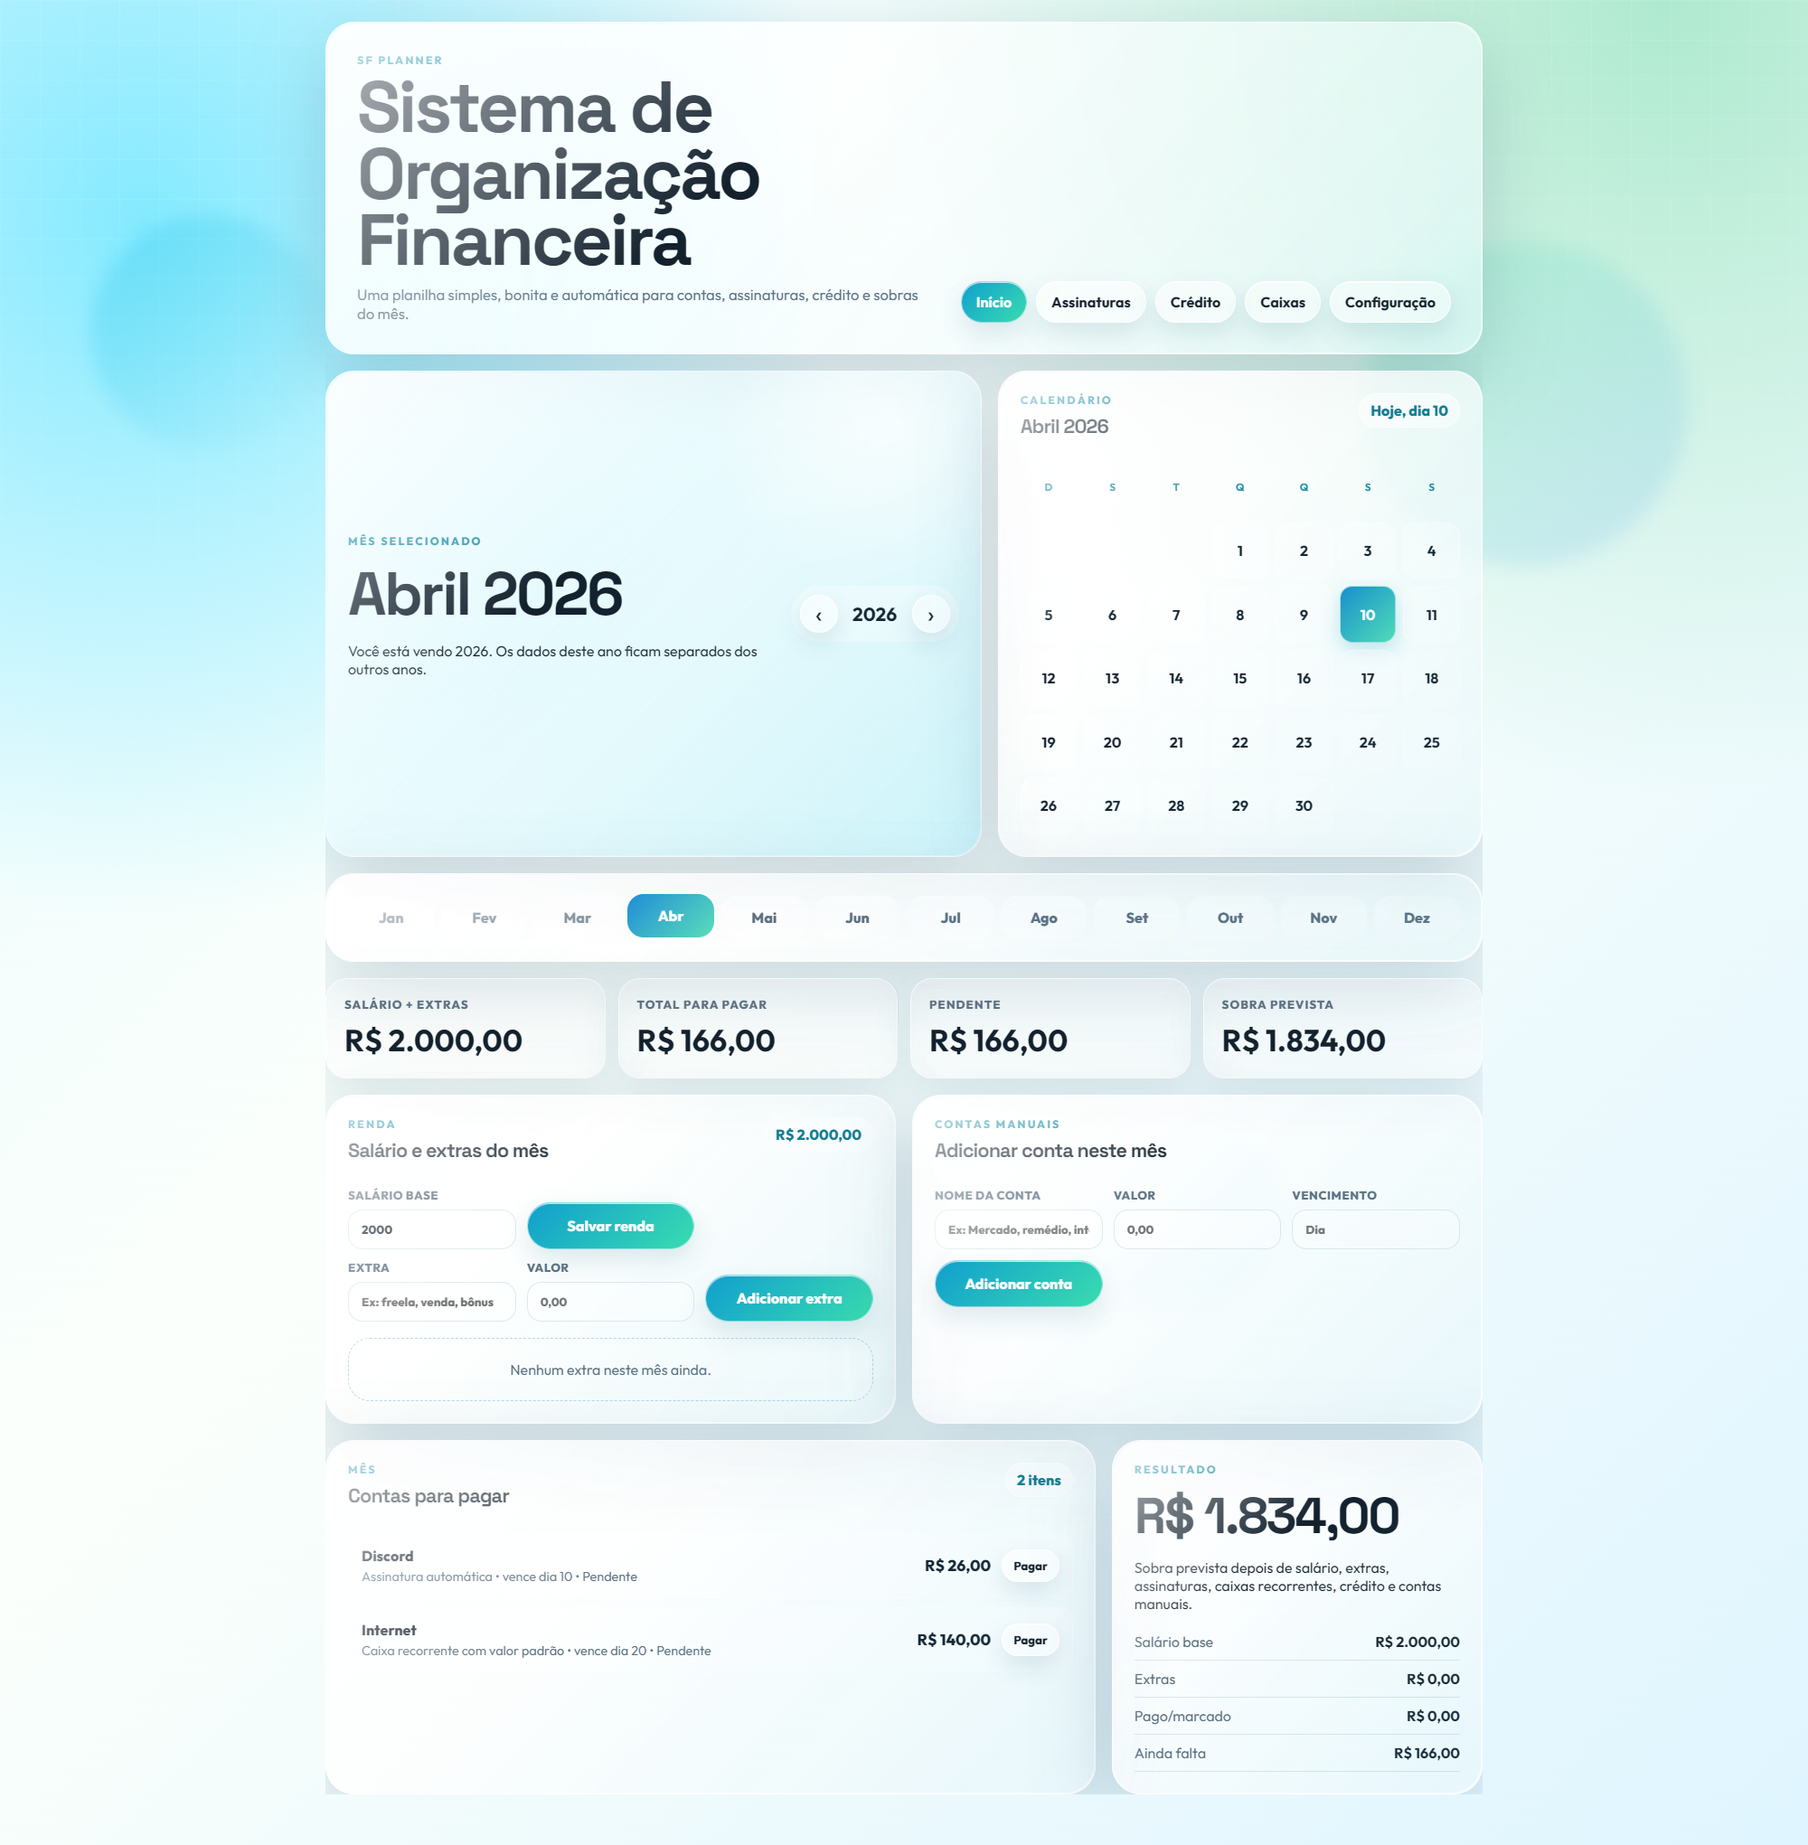
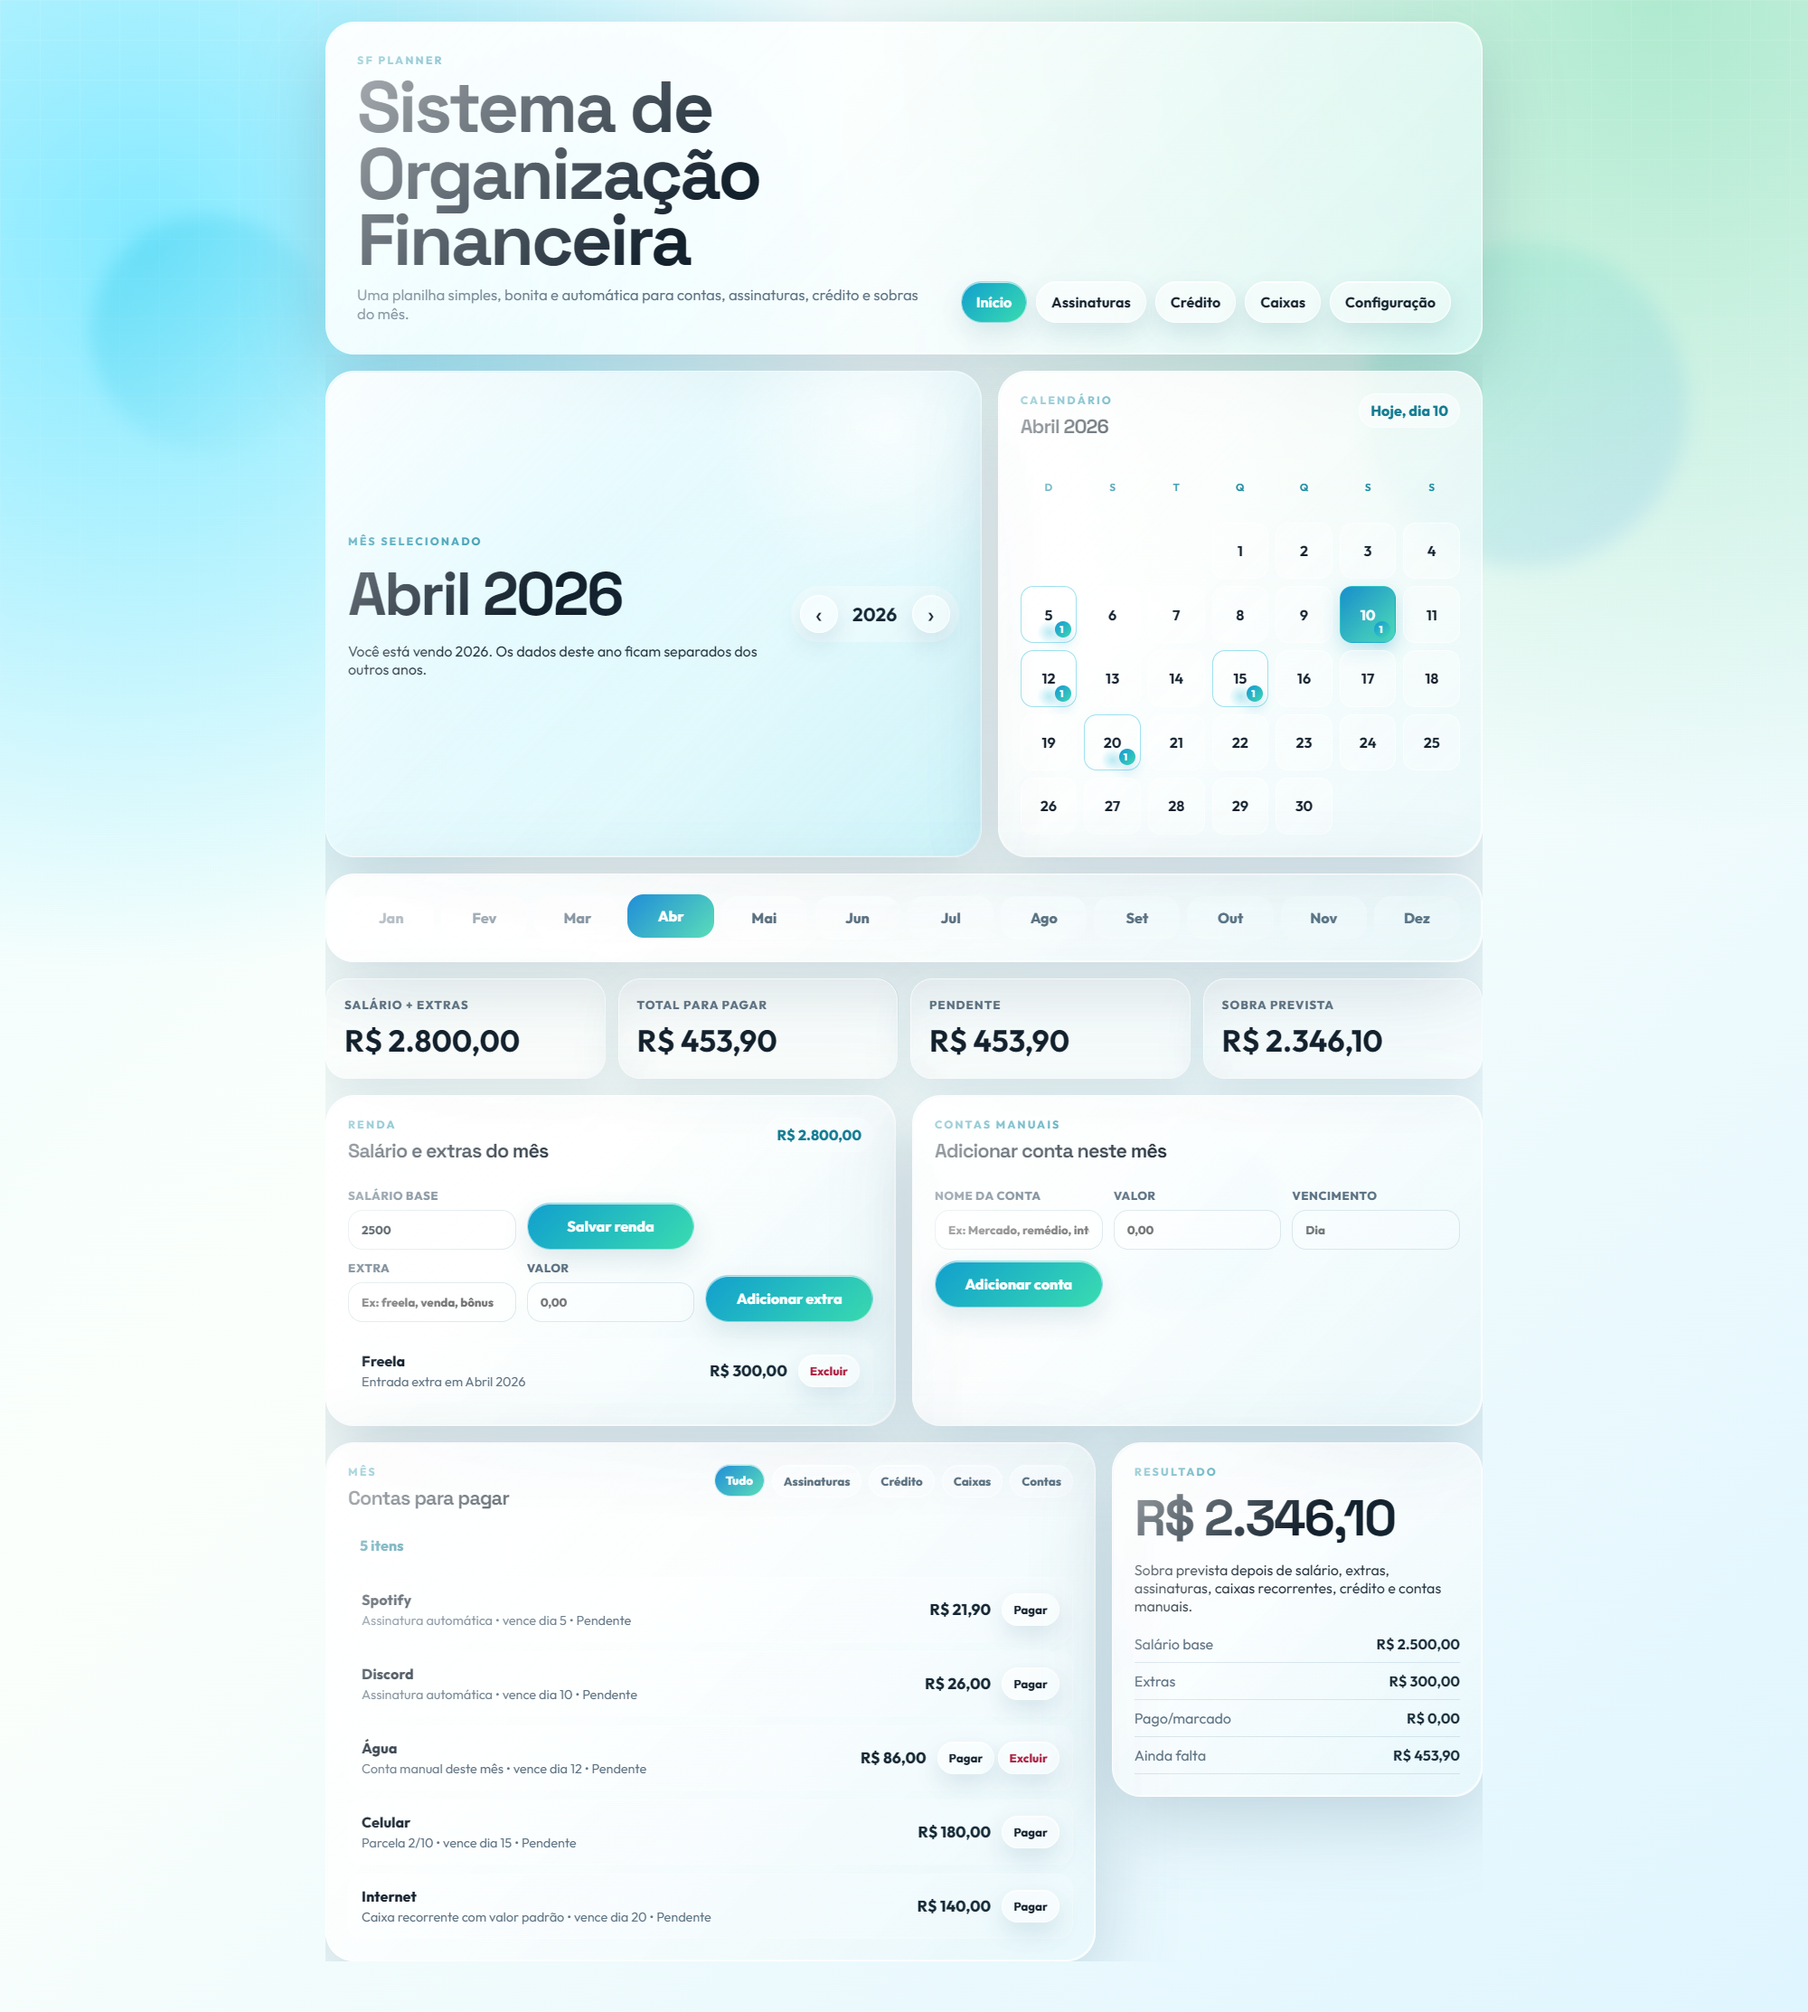
Adicionar indicadores e filtros de contas

diff --git a/app.js b/app.js
@@ -22,6 +22,7 @@ const today = new Date();
 let selectedYear = today.getFullYear();
 let selectedMonth = today.getMonth();
 let activeView = "dashboard";
+let activeBillFilter = "all";
 let state = loadState();
 let dom = {};
 
@@ -264,6 +265,12 @@ function renderCalendar() {
   const firstDay = new Date(selectedYear, selectedMonth, 1).getDay();
   const daysInMonth = new Date(selectedYear, selectedMonth + 1, 0).getDate();
   const isCurrentMonth = today.getFullYear() === selectedYear && today.getMonth() === selectedMonth;
+  const itemsByDay = getCurrentItems().reduce((days, item) => {
+    const day = Math.max(1, Math.min(daysInMonth, item.dueDay));
+    days[day] = days[day] || [];
+    days[day].push(item);
+    return days;
+  }, {});
 
   dom.calendarTitle.textContent = `${monthNames[selectedMonth]} ${selectedYear}`;
   dom.todayChip.textContent = isCurrentMonth ? `Hoje, dia ${today.getDate()}` : "Mês salvo";
@@ -279,7 +286,17 @@ function renderCalendar() {
 
   for (let day = 1; day <= daysInMonth; day += 1) {
     const todayClass = isCurrentMonth && today.getDate() === day ? " today" : "";
-    dom.calendarGrid.insertAdjacentHTML("beforeend", `<div class="calendar-day${todayClass}">${day}</div>`);
+    const dayItems = itemsByDay[day] || [];
+    const billClass = dayItems.length ? " has-bills" : "";
+    const overdueClass = dayItems.some((item) => item.overdue) ? " has-overdue" : "";
+    const title = dayItems.length
+      ? ` title="${dayItems.map((item) => `${item.title}: ${money(item.value)}`).join(" | ")}"`
+      : "";
+    const badge = dayItems.length ? `<span class="calendar-badge">${dayItems.length}</span>` : "";
+    dom.calendarGrid.insertAdjacentHTML(
+      "beforeend",
+      `<div class="calendar-day${todayClass}${billClass}${overdueClass}"${title}>${day}${badge}</div>`,
+    );
   }
 }
 
@@ -295,10 +312,14 @@ function renderMonthTabs() {
 function renderDashboard() {
   const summary = calculateMonth();
   const monthData = getMonthData();
+  const filteredItems = filterItems(summary.items);
 
   dom.baseSalary.value = state.settings.baseSalary || "";
   dom.incomeStatus.textContent = money(summary.income);
-  dom.billCount.textContent = `${summary.items.length} itens`;
+  dom.billCount.textContent =
+    activeBillFilter === "all"
+      ? `${summary.items.length} itens`
+      : `${filteredItems.length} de ${summary.items.length} itens`;
   dom.monthLeftover.textContent = money(summary.leftover);
 
   dom.summaryStrip.innerHTML = [
@@ -319,8 +340,13 @@ function renderDashboard() {
     .map(([label, value]) => `<div class="ledger-row"><span>${label}</span><strong>${value}</strong></div>`)
     .join("");
 
-  renderMonthItems(summary.items);
+  renderMonthItems(filteredItems, summary.items.length);
   renderExtras();
+}
+
+function filterItems(items) {
+  if (activeBillFilter === "all") return items;
+  return items.filter((item) => item.kind === activeBillFilter);
 }
 
 function renderExtras() {
@@ -348,9 +374,13 @@ function renderExtras() {
     .join("");
 }
 
-function renderMonthItems(items) {
+function renderMonthItems(items, totalItems = items.length) {
   if (!items.length) {
-    dom.monthItems.innerHTML = `<div class="empty-state">Nenhuma conta neste mês ainda. Adicione uma conta, assinatura, caixa ou crédito.</div>`;
+    const message =
+      totalItems > 0
+        ? "Nenhum item encontrado para este filtro."
+        : "Nenhuma conta neste mês ainda. Adicione uma conta, assinatura, caixa ou crédito.";
+    dom.monthItems.innerHTML = `<div class="empty-state">${message}</div>`;
     return;
   }
 
@@ -461,6 +491,7 @@ function cacheDom() {
   dom = {
     views: document.querySelectorAll(".view"),
     navPills: document.querySelectorAll(".nav-pill"),
+    filterPills: document.querySelectorAll(".filter-pill"),
     selectedMonthTitle: document.getElementById("selected-month-title"),
     selectedYear: document.getElementById("selected-year"),
     selectedYearCopy: document.getElementById("selected-year-copy"),
@@ -516,6 +547,14 @@ function togglePaid(kind, id, creditId, installmentIndex) {
 function bindEvents() {
   dom.navPills.forEach((button) => {
     button.addEventListener("click", () => setView(button.dataset.viewTarget));
+  });
+
+  dom.filterPills.forEach((button) => {
+    button.addEventListener("click", () => {
+      activeBillFilter = button.dataset.filter;
+      dom.filterPills.forEach((item) => item.classList.toggle("active", item === button));
+      renderDashboard();
+    });
   });
 
   document.addEventListener("click", (event) => {

diff --git a/styles.css b/styles.css
@@ -308,6 +308,10 @@ h3 {
   background: rgba(255, 255, 255, 0.55);
 }
 
+.count-chip {
+  margin: -8px 0 16px;
+}
+
 .calendar-grid {
   display: grid;
   grid-template-columns: repeat(7, 1fr);
@@ -330,14 +334,46 @@ h3 {
 }
 
 .calendar-day {
+  position: relative;
   border: 1px solid rgba(255, 255, 255, 0.58);
   background: rgba(255, 255, 255, 0.36);
+}
+
+.calendar-day.has-bills {
+  border-color: rgba(27, 185, 214, 0.42);
+  background:
+    radial-gradient(circle at 50% 82%, rgba(27, 185, 214, 0.28), transparent 22%),
+    rgba(255, 255, 255, 0.5);
+}
+
+.calendar-day.has-overdue {
+  border-color: rgba(239, 71, 111, 0.48);
 }
 
 .calendar-day.today {
   color: white;
   background: linear-gradient(135deg, #178ecc, #50ddb7);
   box-shadow: 0 8px 22px rgba(20, 153, 194, 0.24);
+}
+
+.calendar-badge {
+  position: absolute;
+  right: 5px;
+  bottom: 5px;
+  min-width: 18px;
+  height: 18px;
+  padding: 0 5px;
+  border-radius: 999px;
+  color: white;
+  font-size: 0.67rem;
+  font-weight: 900;
+  line-height: 18px;
+  background: linear-gradient(135deg, #1397d5, #40d6b2);
+  box-shadow: 0 8px 14px rgba(19, 151, 213, 0.25);
+}
+
+.calendar-day.has-overdue .calendar-badge {
+  background: linear-gradient(135deg, #ef476f, #ff9f43);
 }
 
 .month-tabs {
@@ -362,6 +398,32 @@ h3 {
   color: white;
   background: linear-gradient(135deg, #208dd8, #5bddb9);
   transform: translateY(-2px);
+}
+
+.filter-group {
+  display: flex;
+  flex-wrap: wrap;
+  justify-content: flex-end;
+  gap: 8px;
+}
+
+.filter-pill {
+  border: 1px solid rgba(255, 255, 255, 0.74);
+  border-radius: 999px;
+  padding: 9px 12px;
+  color: var(--muted);
+  font-size: 0.82rem;
+  font-weight: 900;
+  background: rgba(255, 255, 255, 0.46);
+  box-shadow: inset 0 1px 0 rgba(255, 255, 255, 0.72);
+  transition: 180ms ease;
+}
+
+.filter-pill:hover,
+.filter-pill.active {
+  color: white;
+  background: linear-gradient(135deg, #208dd8, #5bddb9);
+  transform: translateY(-1px);
 }
 
 .summary-strip {

diff --git a/index.html b/index.html
@@ -126,8 +126,15 @@
                 <p class="eyebrow">mês</p>
                 <h3>Contas para pagar</h3>
               </div>
-              <span class="soft-chip" id="bill-count">0 itens</span>
+              <div class="filter-group" aria-label="Filtrar contas">
+                <button class="filter-pill active" data-filter="all">Tudo</button>
+                <button class="filter-pill" data-filter="subscription">Assinaturas</button>
+                <button class="filter-pill" data-filter="credit">Crédito</button>
+                <button class="filter-pill" data-filter="template">Caixas</button>
+                <button class="filter-pill" data-filter="bill">Contas</button>
+              </div>
             </div>
+            <span class="soft-chip count-chip" id="bill-count">0 itens</span>
             <div class="item-list" id="month-items"></div>
           </article>
 
